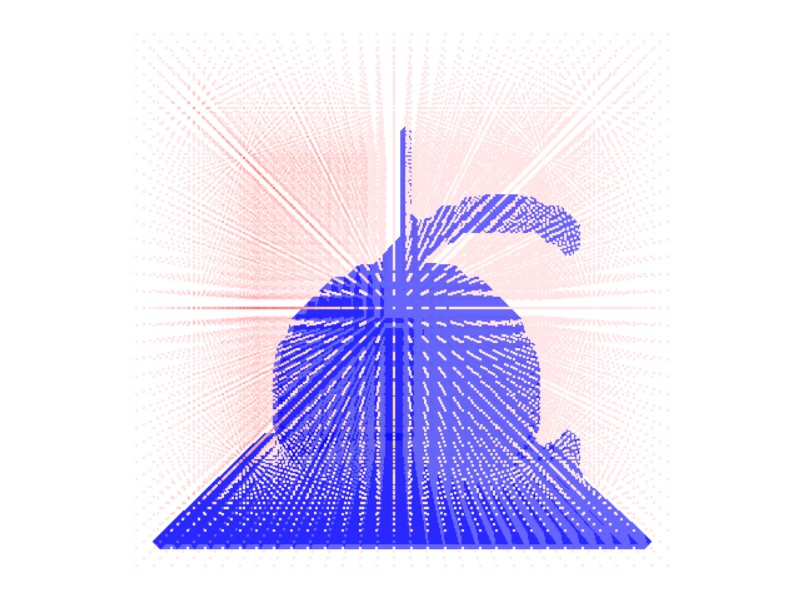
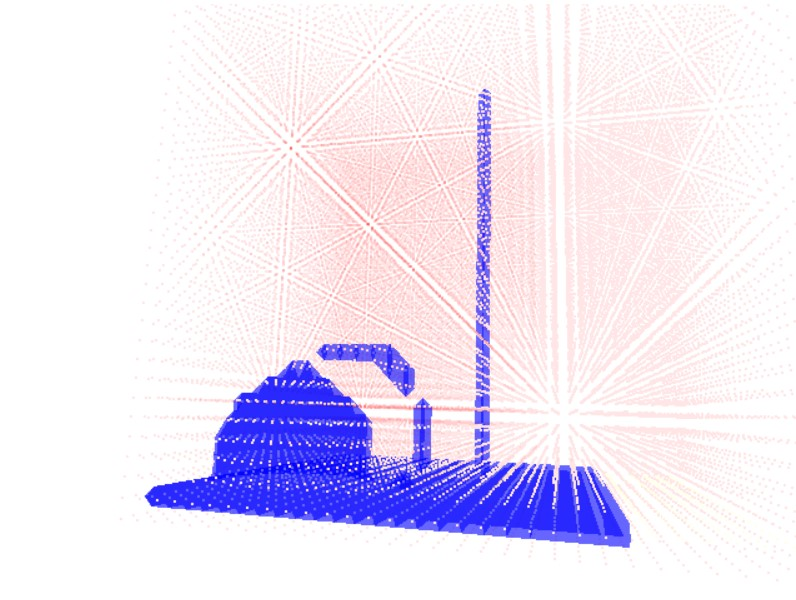
Final commit

diff --git a/docs.html b/docs.html
@@ -80,7 +80,7 @@
         let curImg = sampleImg.getAttribute('src');
         let curIt = +curImg.charAt(curImg.length - 5);
         curIt += aheadOrBack;
-        let numOfThings = 4;
+        let numOfThings = 5;
         curIt = curIt % numOfThings;
 
         if(curIt == -1 && aheadOrBack == -1){
@@ -161,7 +161,7 @@
 
     <div class="description">
         <br>
-        To get a better view of the algorithm, here are some complex shapes rendered in the algorithm:    
+        To get a better view of the algorithm, here are some complex shapes rendered in the algorithm. Here, the last image is at a higher cube-edge-size, as can be seen, some of the detail is lost here
     </div>
 
     <div class="controls">
@@ -169,7 +169,7 @@
         <button class="btnControl" onclick="sampleNext(1)">Next →</button>
     </div>
     <div class="image">
-        <div id="sampleIteration1">1/4</div>
+        <div id="sampleIteration1">1/5</div>
         <img id="sampleImg2" src="./Screenshots_2/1.jpg" alt="" srcset="">
     </div>
 

diff --git a/main.cpp b/main.cpp
@@ -27,7 +27,7 @@ float yawAngle = 0.0f;      // n axis
 float pitchAngle = 0.0f;    // u axis
 float rollAngle = 0.0f;     // v axis
 
-float gridSide = 1.0/5.0;
+float gridSide = 1.0/2.0;
 int numVerts = (int)6.0f/gridSide;          // goes from -3 to 3
 
 float grid[32][32][32];
